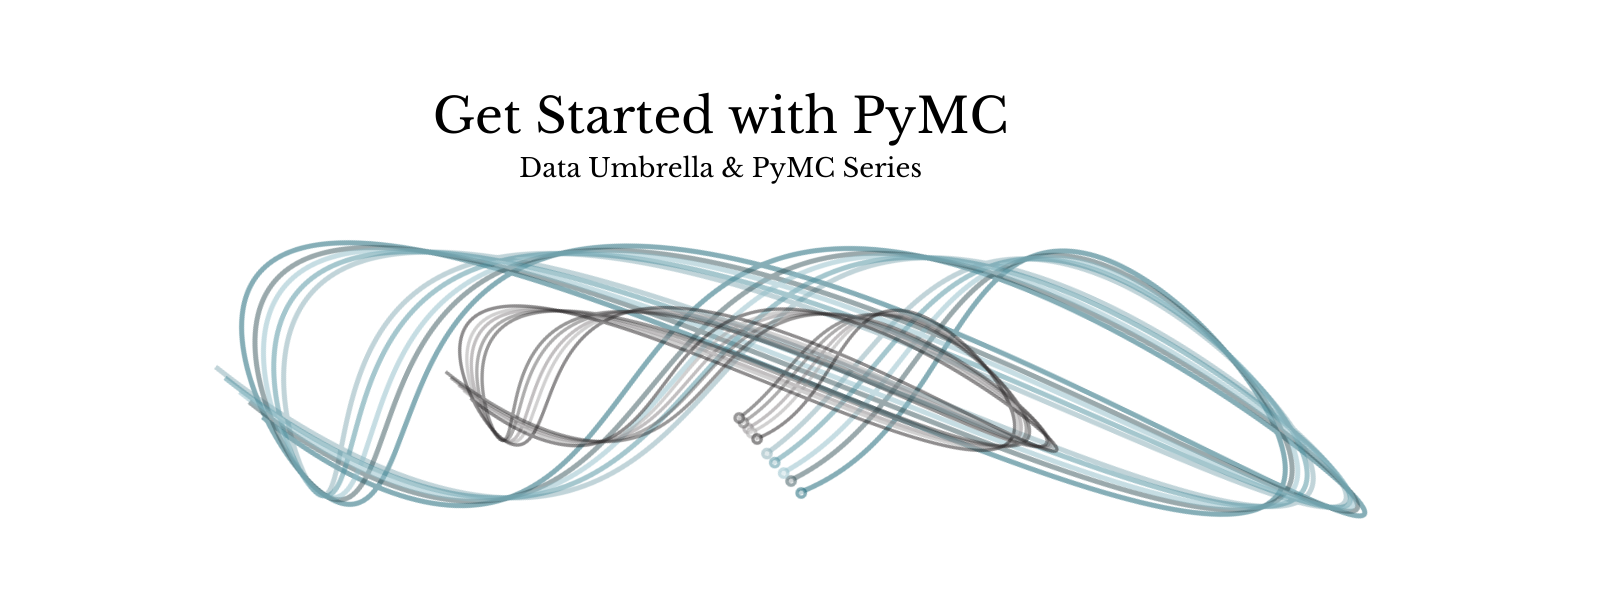
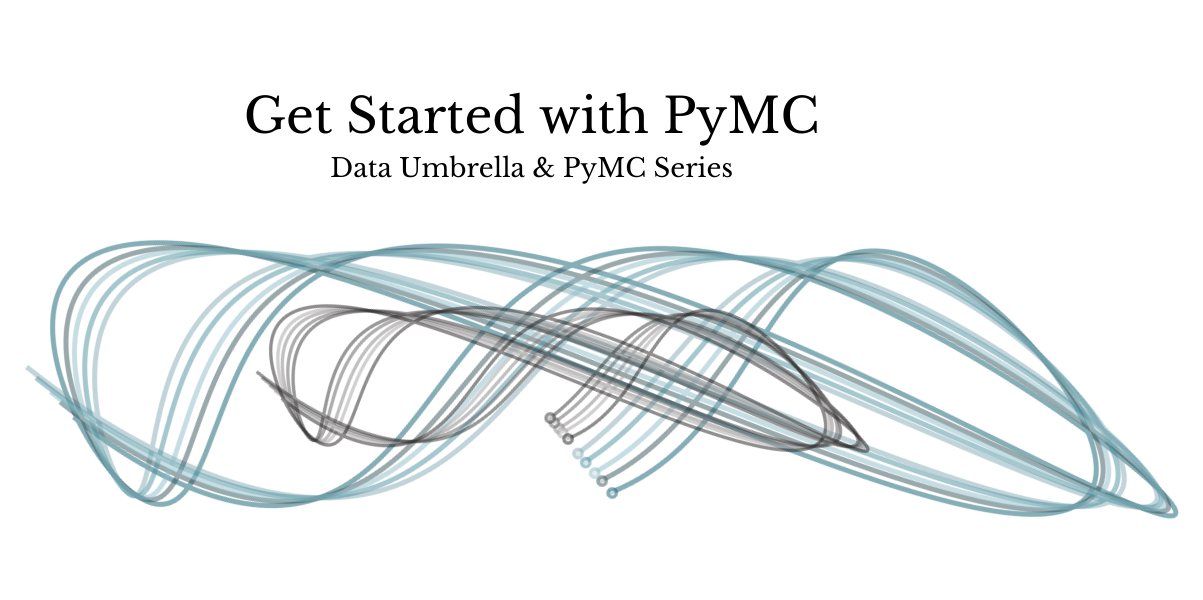
trying to make it work

Changed region(s): [[0.0, 0.39, 0.9842, 0.87], [0.1845, 0.15, 0.6766, 0.3]]

diff --git a/_templates/layout.html b/_templates/layout.html
@@ -6,7 +6,7 @@
     {{ super() }}
     <script>
     $(document).ready(function () {
-    const content = $('<a href="https://pymc-data-umbrella.xyz/en/latest/banner.html"><img src="https://raw.githubusercontent.com/pymc-devs/sprint-pymc-data-umbrella/latest/banner.png" class="responsive"><\a>')
+    const content = $('<a href="https://pymc-data-umbrella.xyz/en/latest/banner.html"><img src="https://raw.githubusercontent.com/pymc-devs/sprint-pymc-data-umbrella/main/banner.png" class="responsive" style="min-height:100%; min-width:100%;top:-100%; bottom:-100%;left:-100%; right:-100%;"><\a>')
     $('#banner').append(content);
     })
     </script>
@@ -14,4 +14,3 @@
         {{ super() }}
     {% endif %}
 {%- endblock %}
-
